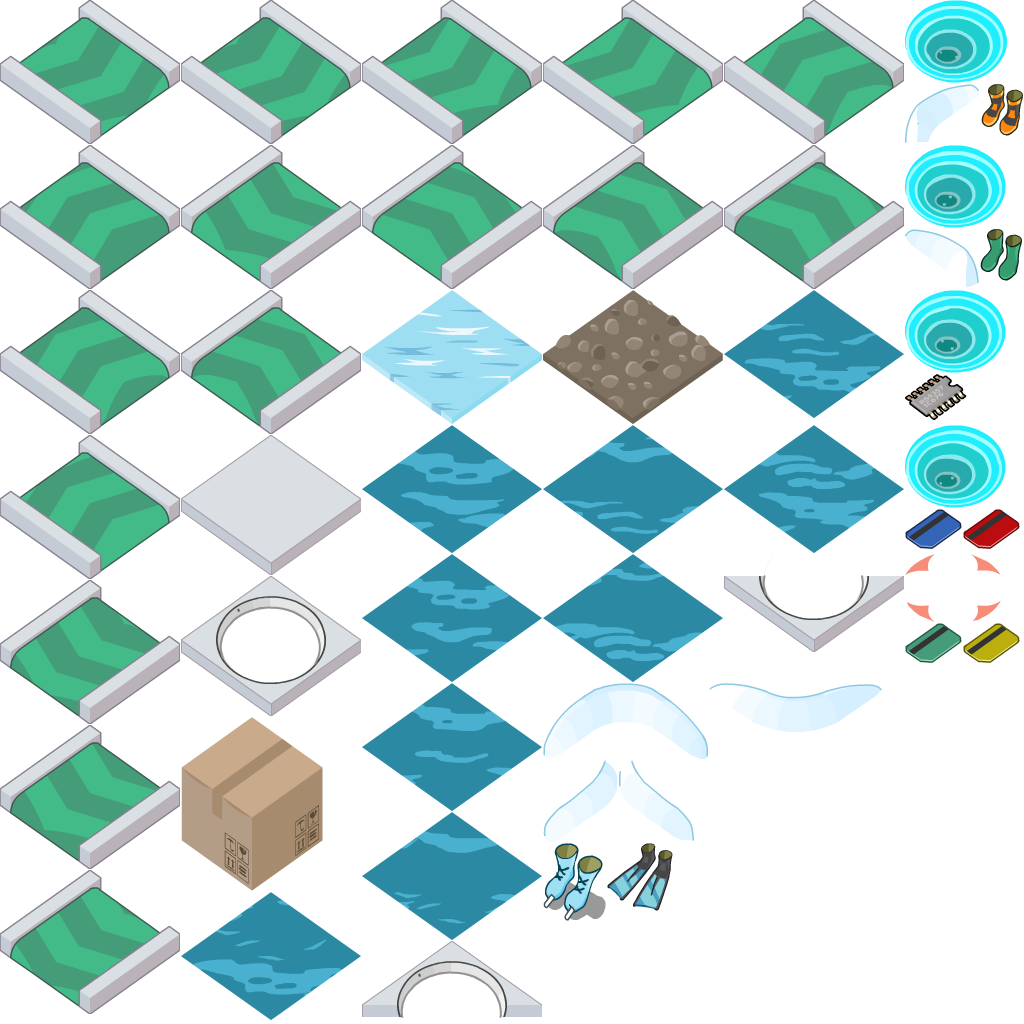
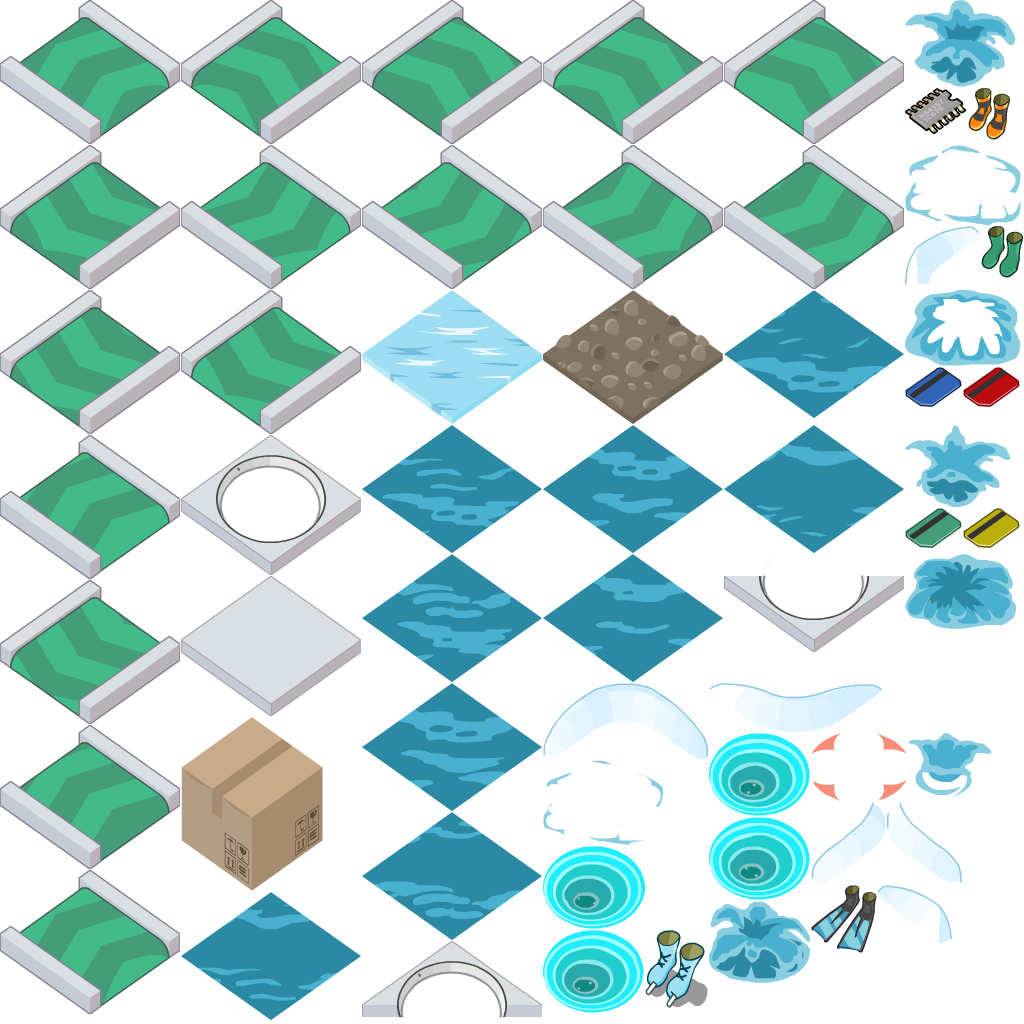
Water: splash animation.

diff --git a/Classes/Level/Objects/Water.cpp b/Classes/Level/Objects/Water.cpp
@@ -19,13 +19,24 @@ Water::Water(Level* level, const cocos2d::Vec2& coordinate) : LevelObject(level,
     auto animation = cocos2d::AnimationCache::getInstance()->getAnimation("water");
 	_sprite->runAction(cocos2d::RepeatForever::create(cocos2d::Animate::create(animation)));
 
-	auto emitter = TileSoundEmitter::create("water.mp3");
+	_splash = nullptr;
+
+	/*auto emitter = TileSoundEmitter::create("water.mp3");
 	emitter->setCoordinate(_coordinate);
-	_level->getSoundEnvironment()->addEmitter(emitter);
+	_level->getSoundEnvironment()->addEmitter(emitter);*/
 }
 
 Water::~Water()
 {
+}
+
+void Water::reset()
+{
+	if (_splash != nullptr)
+	{
+		_splash->stopAllActions();
+		_splash->setVisible(false);
+	}
 }
 
 void Water::afterEnter(Creature *creature)
@@ -41,6 +52,24 @@ void Water::afterEnter(Creature *creature)
     }
     
     _level->removeCreature(creature);
+	if (_splash == nullptr)
+	{
+		_splash = cocos2d::Sprite::create();
+		_splash->setAnchorPoint(cocos2d::Vec2::ZERO);
+		_splash->setPosition(cocos2d::Vec2::ZERO);
+		_sprite->addChild(_splash);
+	}
+
+	_splash->setVisible(true);
+	_splash->stopAllActions();
+	_splash->runAction(cocos2d::Sequence::create(
+		cocos2d::Animate::create(cocos2d::AnimationCache::getInstance()->getAnimation("splash")),
+		cocos2d::CallFuncN::create([](cocos2d::Node* splash) {
+			splash->setVisible(false);
+		}),
+		nullptr
+	));
+
     if (creature->getType() == CreatureType::CHIP)
     {
         _level->fail("Ooops! Chip can't swim without flippers!");

diff --git a/Classes/Level/Objects/CloneMachine.cpp b/Classes/Level/Objects/CloneMachine.cpp
@@ -34,10 +34,10 @@ void CloneMachine::beforeEscape(Creature* creature)
 {
     _working = false;
 
-    auto clonedCreature = Creature::create(creature->getLevel(), creature->getType());
+    /*auto clonedCreature = Creature::create(creature->getLevel(), creature->getType());
     clonedCreature->setDirection(creature->getDirection());
 	clonedCreature->setCoordinate(_coordinate);
-    _level->addCreature(clonedCreature);
+    _level->addCreature(clonedCreature);*/
     
     //_sprites[0]->runAction();
     

diff --git a/Classes/Level/Objects/Water.h b/Classes/Level/Objects/Water.h
@@ -12,12 +12,14 @@ public:
     Water(Level* level, const cocos2d::Vec2& coordinate);
     virtual ~Water();
     
+	void reset() override;
     void afterEnter(Creature *creature) override;
     
     bool hasDrawnBlock() const;
 
 private:
 	cocos2d::Sprite* _sprite;
+	cocos2d::Sprite* _splash;
 };
 
 #endif

diff --git a/Classes/Level/Level.cpp b/Classes/Level/Level.cpp
@@ -109,6 +109,7 @@ void Level::makeTurn(float dt)
     {
         for (auto removedCreature : _removedCreatures)
         {
+			removedCreature->onRemove();
             _creatures.eraseObject(removedCreature);
         }
         _removedCreatures.clear();
